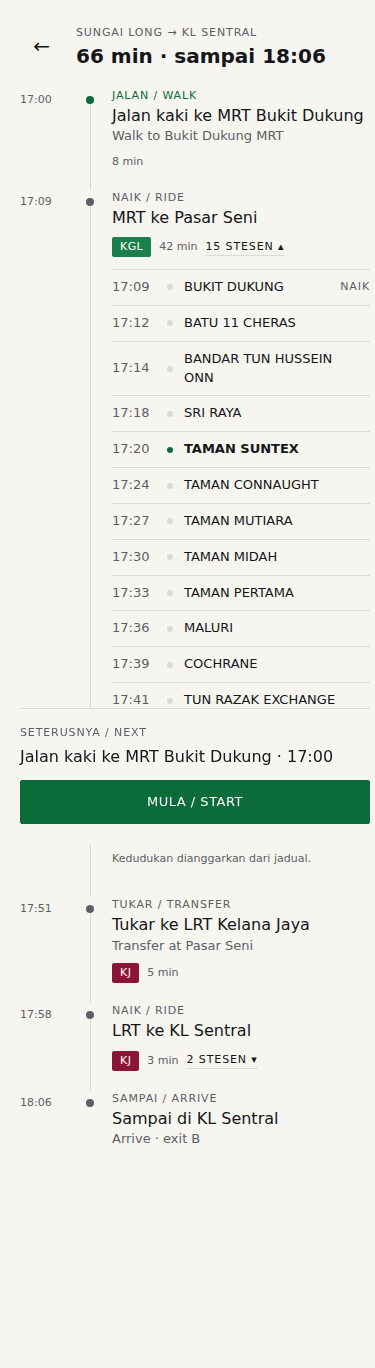
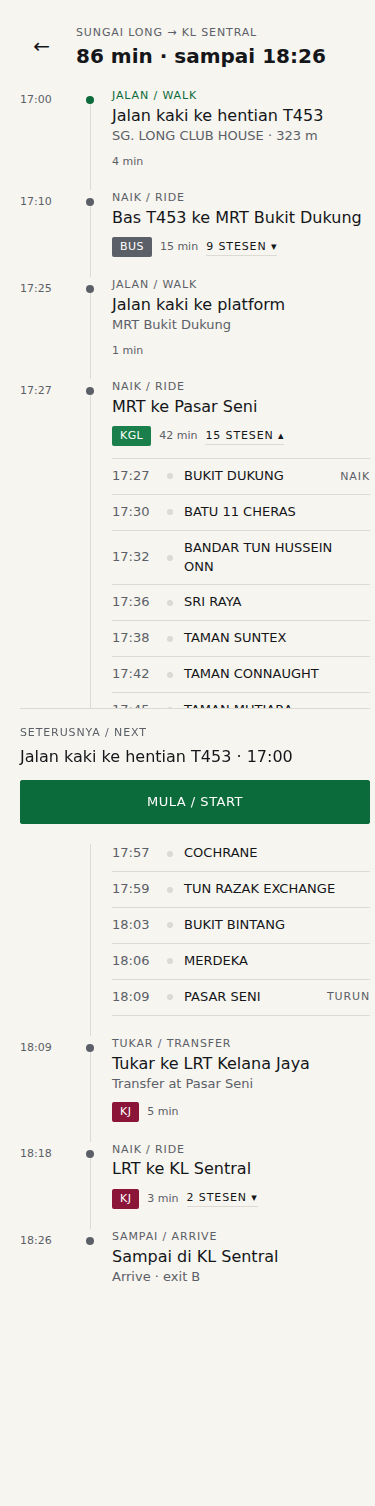
feat: all Malaysia GTFS feeds; door-to-door plan (T453) is now the API default

diff --git a/DATA.md b/DATA.md
@@ -5,13 +5,30 @@ No scraping, no third-party APIs.
 
 ## Sources
 
-| Feed | Endpoint | Refresh | Notes |
+| Feed | key | Region | Notes |
 | --- | --- | --- | --- |
-| Rapid Rail KL | `https://api.data.gov.my/gtfs-static/prasarana?category=rapid-rail-kl` | as required | LRT / MRT / Monorail / BRT |
-| Rapid Bus KL | `https://api.data.gov.my/gtfs-static/prasarana?category=rapid-bus-kl` | as required | City buses |
-| Rapid Bus MRT Feeder | `https://api.data.gov.my/gtfs-static/prasarana?category=rapid-bus-mrtfeeder` | as required | Feeder buses to MRT stations (e.g. T453) |
-| KTMB | `https://api.data.gov.my/gtfs-static/ktmb` | daily 00:01 | Komuter / ETS |
-| Vehicle positions (RT) | `https://api.data.gov.my/gtfs-realtime/vehicle-position/<agency>` | every 30s | **Positions only** |
+| Rapid Rail KL | `rail` | Klang Valley | LRT / MRT / Monorail / BRT |
+| Rapid Bus KL | `bus` | Klang Valley | City buses |
+| Rapid Bus MRT Feeder | `mrtfeeder` | Klang Valley | Feeder buses to MRT stations (e.g. T453) |
+| Rapid Bus Penang | `penang` | Pulau Pinang | City buses |
+| BAS.MY Kangar | `kangar` | Perlis | Stage buses |
+| BAS.MY Alor Setar | `alor-setar` | Kedah | Stage buses |
+| BAS.MY Kota Bharu | `kota-bharu` | Kelantan | **published empty** (headers only) |
+| BAS.MY Kuala Terengganu | `kuala-terengganu` | Terengganu | **published empty** (headers only) |
+| BAS.MY Ipoh | `ipoh` | Perak | Stage buses |
+| BAS.MY Melaka | `melaka` | Melaka | Stage buses |
+| BAS.MY Johor Bahru | `johor` | Johor | Stage buses |
+| BAS.MY Kuching | `kuching` | Sarawak | Stage buses |
+| KTMB | `ktmb` | National | Komuter / ETS |
+| Vehicle positions (RT) | — | — | every 30s, **positions only** |
+
+Endpoints follow `https://api.data.gov.my/gtfs-static/<path>`: Prasarana uses
+`prasarana?category=rapid-rail-kl|rapid-bus-kl|rapid-bus-mrtfeeder|rapid-bus-penang`, BAS.MY uses
+`mybas-<city>`, KTMB uses `ktmb`. `rapid-bus-kuantan` is gone (404).
+
+Two feeds publish only headers: `mybas-kota-bharu` and `mybas-kuala-terengganu` return a valid zip whose
+`stops.txt` / `trips.txt` / `stop_times.txt` contain no rows. They are ingested as empty rather than
+treated as errors, so the gap shows up in the counts instead of crashing the refresh.
 
 ## Known limitations
 
@@ -27,6 +44,9 @@ No scraping, no third-party APIs.
 4. **Fares are not in GTFS.** No fare_attributes.txt / fare_rules.txt in the rail feed.
 5. **Timezone**: `Asia/Kuala_Lumpur`. Service days roll over around 04:00 local, and times
    can exceed 24:00:00.
+6. **Stop names repeat across states.** 96 names exist in more than one feed (`HOSPITAL`,
+   `TERMINAL`, …). Any stop lookup must either filter by `feed` or refuse to guess — `next.mjs`
+   lists candidates and exits when a name spans feeds.
 
 ## Licence
 
@@ -36,7 +56,7 @@ in any public build.
 
 ## Refresh
 
-`scripts/refresh.sh` rebuilds the database from the three feeds and swaps it in atomically:
+`scripts/refresh.sh` rebuilds the database from every feed in `ingest/feeds.mjs` and swaps it in atomically:
 
 - the new DB is built in `data/jalan.db.tmp`, then `rename()`d over `data/jalan.db` — a reader sees
   either the old complete file or the new complete file, never a half-built one;

diff --git a/BACKLOG.md b/BACKLOG.md
@@ -40,7 +40,7 @@ filled dot — labelled as estimated from the schedule, because it is.
 **Still missing.** The dot is an inference from the timetable, not a live position. It becomes true
 only when live vehicle positions land.
 
-## 2. Door-to-door from Sungai Long Residence
+## 2. Door-to-door from Sungai Long Residence — SHIPPED 2026-10-19
 
 **Ask.** From home: which bus stop to walk to, which bus, which station to get off, whether to
 transfer, and how long each walk takes.
@@ -60,8 +60,9 @@ transfer, and how long each walk takes.
   current plan's fixed "8 min walk to Bukit Dukung" is fabricated and must be replaced by the T453
   feeder leg.
 
-**Working CLI.** `npm run door -- --at 08:00` prints the real chain: walk 4 min → T453 (08:08) →
-MRT KG31 (08:27) → Pasar Seni → LRT → KL Sentral (09:26), 86 min total.
+**Shipped.** `lib.planDoorToDoor()` is now the single source for both `npm run door` and `/api/plan`.
+The app shows the real chain: walk 4 min → T453 (9 stops) → MRT KG31 (15 stops) → Pasar Seni →
+LRT → KL Sentral, **86 min**. The old fixed "8 min walk to Bukit Dukung" is gone.
 
 **Needs.** Walking legs computed from stop coordinates (distance ÷ ~75 m/min), bus legs with real
 departures, and an origin that is an address, not a station.
